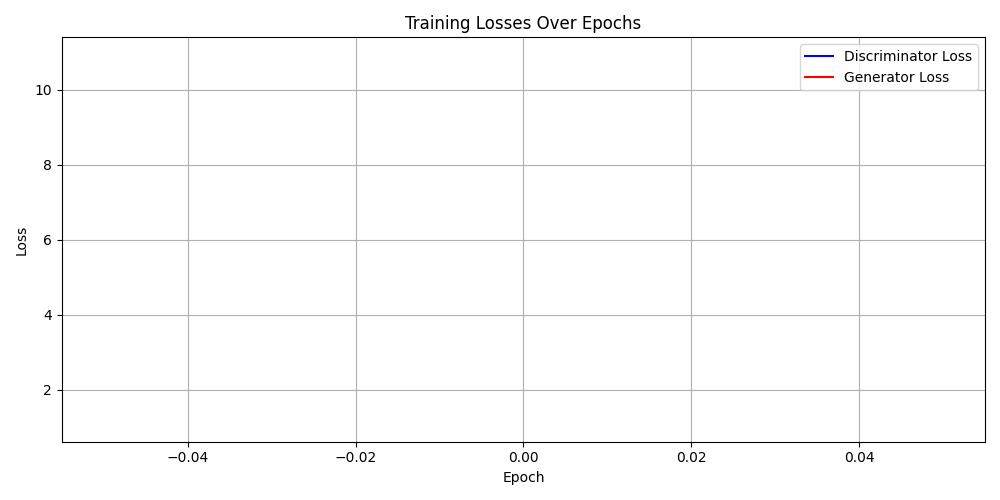
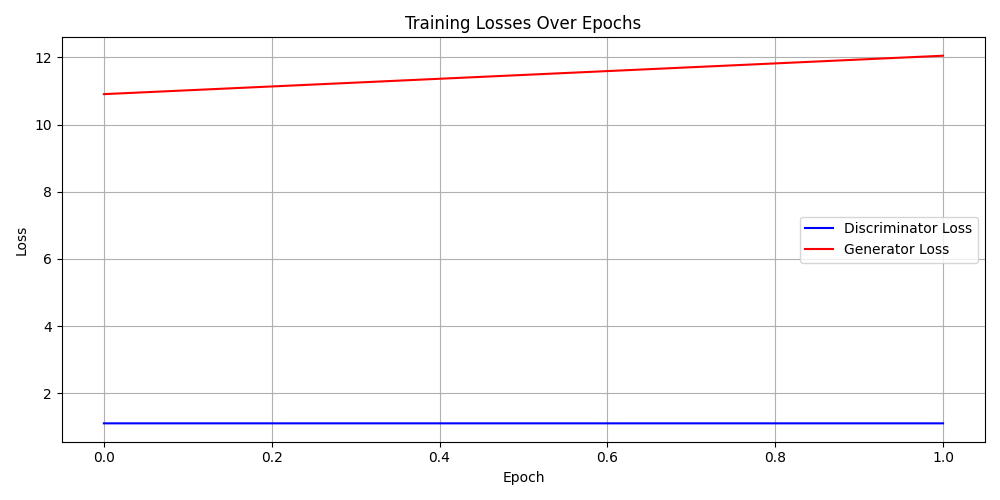
Code changes to tuner

diff --git a/FinalProject/MODEL_V2.py b/FinalProject/MODEL_V2.py
@@ -314,7 +314,7 @@ tuner = kt.Hyperband(
     build_gan,
     objective=kt.Objective("g_loss", direction="min"),
     max_epochs=30,
-    hyperband_iterations=2,
+    hyperband_iterations=5,
     overwrite=True
 )
 
@@ -376,17 +376,15 @@ class LossHistoryPlotter(tf.keras.callbacks.Callback):
         plt.tight_layout()
         plt.savefig('losses_over_epochs.png')
         plt.close()
-        
+
 # CHange this to True to retrain the model weights, and False to just get predictions!
 retrain = True
 
 if retrain:
 
-
-    
     stop_early = tf.keras.callbacks.EarlyStopping(monitor='g_loss', patience=20)
     loss_plotter = LossHistoryPlotter()
-    tuner.search(dataset, epochs=20, callbacks=[stop_early, loss_plotter])
+    tuner.search(dataset, epochs=200, callbacks=[stop_early, loss_plotter])
 
     best_model = tuner.get_best_models(num_models=1)[0]
 
